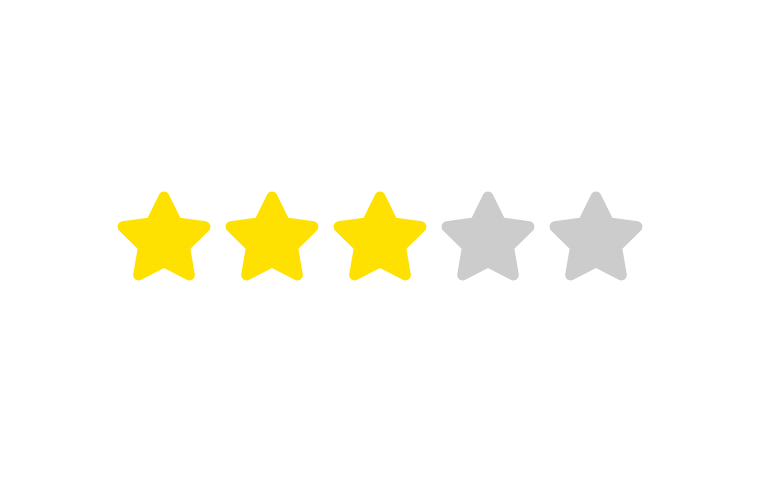
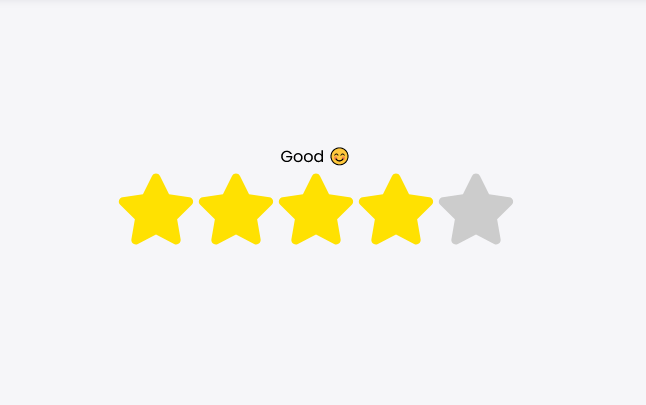
update star-rating play

Changed region(s): [[0.1548, 0.3556, 0.8359, 0.6222]]

diff --git a/src/plays/star-rating/StarRating.js b/src/plays/star-rating/StarRating.js
@@ -10,6 +10,24 @@ function StarRating(props) {
   const [rating, setRating] = useState(null);
   const [hoverFill, setHoverFill] = useState(null);
 
+  const getReviewLabel = (rating) => {
+    switch (rating) {
+      case 1:
+        return `Very bad ${String.fromCodePoint("0x1F922")}`;
+      case 2:
+        return `Bad ${String.fromCodePoint("0x1F97A")}`;
+      case 3:
+        return `Okay ${String.fromCodePoint("0x1F60C")}`;
+      case 4:
+        return `Good ${String.fromCodePoint("0x1F60A")}`;
+      case 5:
+        return `Excellent ${String.fromCodePoint("0x1F929")}`;
+
+      default:
+        return "";
+    }
+  };
+
   return (
     <>
       <div className="play-details">
@@ -18,6 +36,14 @@ function StarRating(props) {
           {/* Your Code Starts Here */}
 
           <div className="star-wrapper">
+            <h2 className="review-text">
+              {rating
+                ? getReviewLabel(rating)
+                : hoverFill
+                ? getReviewLabel(hoverFill)
+                : null}
+            </h2>
+
             <div className="star">
               {[...Array(5)].map((_, index) => {
                 const ratingValue = index + 1;
@@ -30,7 +56,8 @@ function StarRating(props) {
                     onClick={() => setRating(ratingValue)}
                   >
                     <FaStar
-                      size={100}
+                      className="FaStar"
+                      size={80}
                       style={{
                         color:
                           ratingValue <= (hoverFill || rating)

diff --git a/src/plays/star-rating/styles.css b/src/plays/star-rating/styles.css
@@ -1,12 +1,19 @@
 /* enter stlyes here */
-
-.star-wrapper {
+.play-details .play-details-body {
   display: flex;
   justify-content: center;
   align-items: center;
-  text-align: center;
   width: 100vw;
   height: 100vh;
+  overflow: hidden;
+}
+
+.star-wrapper {
+  display: flex;
+  flex-direction: column;
+  justify-content: center;
+  align-items: center;
+  text-align: center;
 }
 
 .star > button {
@@ -14,4 +21,10 @@
   border: none;
   cursor: pointer;
   outline: none;
+}
+
+@media screen and (max-width: 450px) {
+  .FaStar {
+    width: 40px;
+  }
 }
